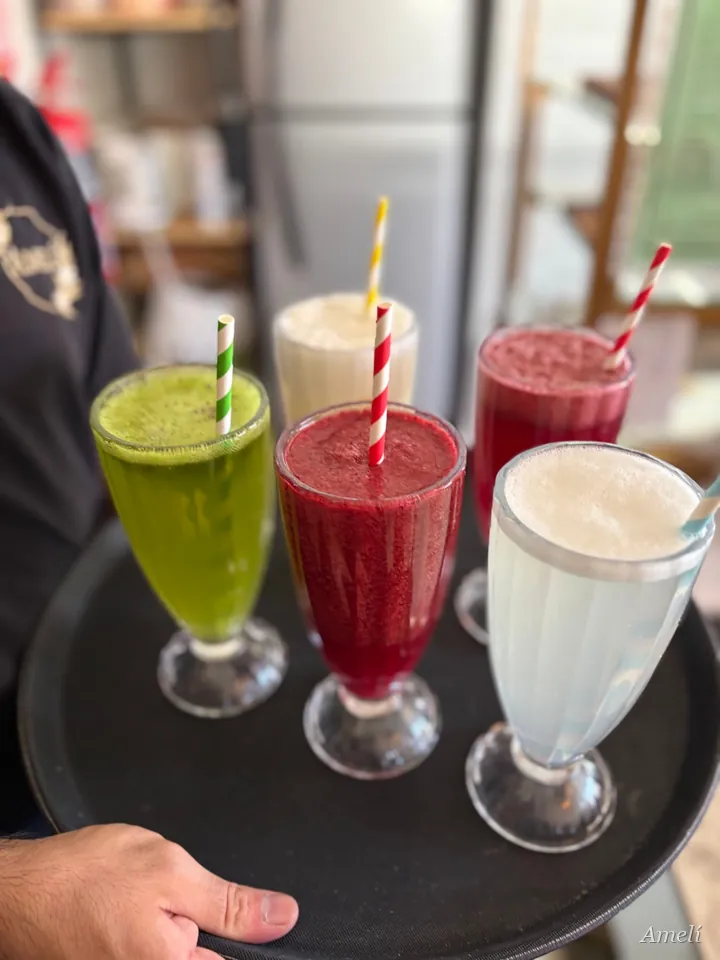
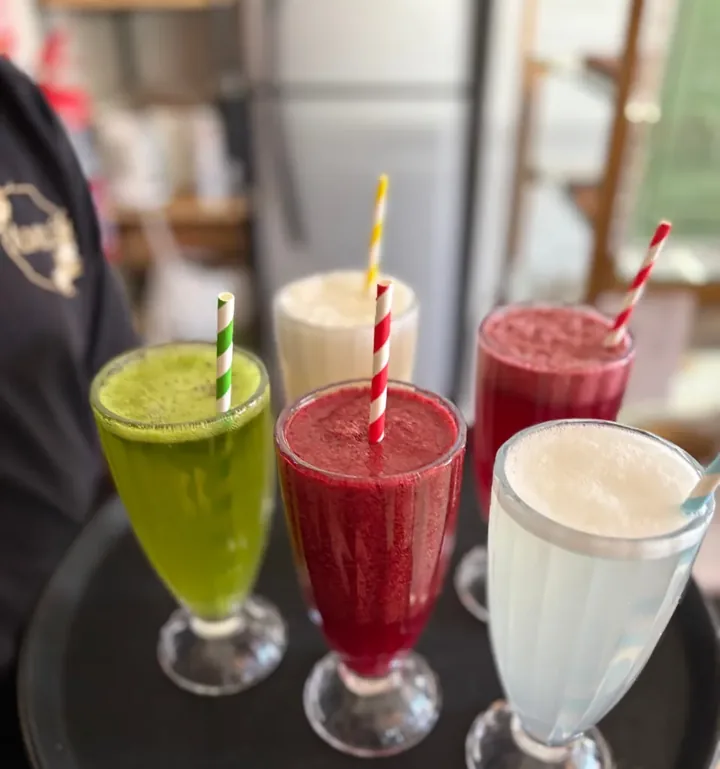
Ajustes de diseño: foto real en menú, tipografía unificada, y limpieza de secciones (#19)
- Menú: agrega foto real del salón en el hero (antes placeholder) y
  alinea la tipografía de la marca con el sitio institucional
  (small-caps en el header, wordmark simple en el footer).
- Institucional: quita el botón de arrepentimiento duplicado del header
  (ya vive en el footer), alinea a la izquierda el párrafo de "Sobre
  Amelí", y recorta la foto de smoothies para sacar la mano que sostenía
  la bandeja.
- Institucional: elimina la sección "Comunidad / Instagram" (4 fotos +
  link de perfil) por pedido explícito, incluyendo el ítem del menú de
  navegación, el CSS asociado, las imágenes huérfanas y los tests que
  dependían de esa sección.

294/294 tests pasan (131 + 163 con 54 subtests).

diff --git a/web/templates/index.template.html b/web/templates/index.template.html
@@ -32,7 +32,6 @@ __SOCIAL_META_TAGS__
       <span class="logo-tipografico" aria-hidden="true">__MARCA__</span>
     </a>
     <div class="header-acciones">
-      <!--PAGINAS_LEGALES_START--><a class="header-legal-link" href="arrepentimiento.html">Botón de arrepentimiento</a><!--PAGINAS_LEGALES_END-->
       <!-- data-a11y-pending: oculta e inhabilita el botón por defecto
            (ver assets/css/site.css). Lo saca site.js recién después de
            encontrar todos los elementos del panel y registrar sus
@@ -70,7 +69,6 @@ __SOCIAL_META_TAGS__
     <!--PASTELERIA_PEDIDOS_START--><a href="#tienda">Carta y pedidos</a><!--PASTELERIA_PEDIDOS_END-->
     <!--SUSTENTABILIDAD_START--><a href="#sustentabilidad">Origen y compromiso</a><!--SUSTENTABILIDAD_END-->
     <!--PREGUNTAS_FRECUENTES_START--><a href="#preguntas-frecuentes">Preguntas frecuentes</a><!--PREGUNTAS_FRECUENTES_END-->
-    <a href="#instagram">Instagram</a>
     <a href="#ubicacion">Visitarnos</a>
     <a href="#contacto">Consultas</a>
     <!--SUMATE_START--><a href="#sumate">Sumate a Amelí</a><!--SUMATE_END-->
@@ -179,7 +177,7 @@ __SOCIAL_META_TAGS__
         <a class="btn btn-secundario" href="https://wa.me/__WHATSAPP_E164__" target="_blank" rel="noopener noreferrer">Pedir por WhatsApp<span class="solo-lectores"> (se abre en una pestaña nueva)</span></a>
       </div>
     </div>
-    <img class="espacio-tienda" alt="Bandeja con cinco batidos de distintos colores, cada uno con sorbete de papel, sostenida por una persona." src="assets/img/carta-pedidos-960.webp" srcset="assets/img/carta-pedidos-480.webp 480w, assets/img/carta-pedidos-720.webp 720w, assets/img/carta-pedidos-960.webp 960w" sizes="(min-width: 900px) 480px, 100vw" width="960" height="1280" loading="lazy" decoding="async">
+    <img class="espacio-tienda" alt="Bandeja con cinco batidos de distintos colores, cada uno con sorbete de papel." src="assets/img/carta-pedidos-960.webp" srcset="assets/img/carta-pedidos-480.webp 480w, assets/img/carta-pedidos-720.webp 720w, assets/img/carta-pedidos-960.webp 960w" sizes="(min-width: 900px) 480px, 100vw" width="960" height="1025" loading="lazy" decoding="async">
   </section><!--PASTELERIA_PEDIDOS_END-->
 
   <!--SUSTENTABILIDAD_START--><section class="sustentabilidad" id="sustentabilidad" aria-labelledby="titulo-sustentabilidad">
@@ -221,37 +219,6 @@ __SOCIAL_META_TAGS__
       </details>
     </div>
   </section><!--PREGUNTAS_FRECUENTES_END-->
-
-  <!-- Comunidad / Instagram -- se ubica antes de Visitarnos y
-       Consultas, como pidió Ignacio. Es una vidriera visual; los
-       canales de contacto no se repiten acá. -->
-  <section class="instagram-preview arquitectura-bloque" id="instagram" aria-labelledby="titulo-instagram">
-    <div class="instagram-cabecera">
-      <div>
-        <p class="eyebrow" id="titulo-instagram">Comunidad</p>
-        <h2 class="titulo-seccion">La mesa sigue en Instagram</h2>
-      </div>
-      <a class="link-secundario" href="https://instagram.com/__INSTAGRAM_HANDLE__" target="_blank" rel="noopener noreferrer">@__INSTAGRAM_HANDLE__<span class="solo-lectores"> (se abre en una pestaña nueva)</span></a>
-    </div>
-    <div class="instagram-grid">
-      <a href="https://www.instagram.com/p/DcEXg40lUrJ/?stkn=NnF3bWtkdWNpbGkw" target="_blank" rel="noopener noreferrer">
-        <img class="espacio-imagen espacio-instagram" alt="Bandeja con alfajores, brownies bañados en chocolate, merengues rellenos de dulce de leche y galletitas con mermelada de frutos rojos." src="assets/img/instagram-01-640.webp" srcset="assets/img/instagram-01-320.webp 320w, assets/img/instagram-01-640.webp 640w" sizes="(min-width: 900px) 25vw, 50vw" width="640" height="853" loading="lazy" decoding="async">
-        <span class="solo-lectores"> (se abre en una pestaña nueva)</span>
-      </a>
-      <a href="https://www.instagram.com/p/Dcv1nCVFfo3/?stkn=MTl0bTEzdjVrZGl3eA==" target="_blank" rel="noopener noreferrer">
-        <img class="espacio-imagen espacio-instagram" alt="Bagel tostado con huevo, jamón, queso, tomate y palta, cortado al medio." src="assets/img/instagram-02-640.webp" srcset="assets/img/instagram-02-320.webp 320w, assets/img/instagram-02-640.webp 640w" sizes="(min-width: 900px) 25vw, 50vw" width="640" height="853" loading="lazy" decoding="async">
-        <span class="solo-lectores"> (se abre en una pestaña nueva)</span>
-      </a>
-      <a href="https://www.instagram.com/reel/Dc6QqV1hOA1/?stkn=eGYyMDRnYXMwZ2N1" target="_blank" rel="noopener noreferrer">
-        <img class="espacio-imagen espacio-instagram" alt="Mesera atendiendo a un cliente junto a la ventana del salón, con el logo de Amelí reflejado en el vidrio." src="assets/img/instagram-03-640.webp" srcset="assets/img/instagram-03-320.webp 320w, assets/img/instagram-03-640.webp 640w" sizes="(min-width: 900px) 25vw, 50vw" width="640" height="853" loading="lazy" decoding="async">
-        <span class="solo-lectores"> (se abre en una pestaña nueva)</span>
-      </a>
-      <a href="https://www.instagram.com/p/DdP9FRaFHhl/?stkn=MTlwanBiYTB6ZHNl" target="_blank" rel="noopener noreferrer">
-        <img class="espacio-imagen espacio-instagram" alt="Manos armando una flor de papel para decorar una torta, y la torta terminada cubierta de pétalos rojos." src="assets/img/instagram-04-640.webp" srcset="assets/img/instagram-04-320.webp 320w, assets/img/instagram-04-640.webp 640w" sizes="(min-width: 900px) 25vw, 50vw" width="640" height="853" loading="lazy" decoding="async">
-        <span class="solo-lectores"> (se abre en una pestaña nueva)</span>
-      </a>
-    </div>
-  </section>
 
   <!-- ===== Visitarnos -- contiene únicamente lo necesario para
        llegar: dirección, horarios y mapas. Consultas vive en su propio

diff --git a/web/assets/css/site.css b/web/assets/css/site.css
@@ -647,23 +647,6 @@ a:focus-visible, button:focus-visible{
 }
 .lista-detalle{font-family:var(--font-body); font-size:.85rem; color:var(--texto-sec)}
 
-/* Comunidad / Instagram (referencia: benditoaceite.com) -- grilla de
-   espacios reservados, mismo tratamiento visual que .espacio-imagen ya
-   define (línea diagonal, borde), solo en formato cuadrado y de a 2/4
-   por fila en vez de un collage asimétrico. */
-.instagram-preview{
-  max-width:var(--max-w); margin:0 auto;
-  padding:56px 24px; border-bottom:1px solid var(--linea-suave);
-}
-.instagram-grid{
-  display:grid; grid-template-columns:repeat(2, 1fr); gap:14px;
-  margin:28px 0 24px;
-}
-.espacio-instagram{aspect-ratio:1/1; font-size:.65rem}
-@media(min-width:860px){
-  .instagram-grid{grid-template-columns:repeat(4, 1fr)}
-}
-
 .contacto-grid{display:grid; grid-template-columns:1fr; gap:28px}
 .contacto-canales{
   display:flex; flex-direction:column; font-style:normal;
@@ -965,7 +948,7 @@ html[data-lectura="simple"] .indice-num{font-style:normal}
    se agrega cómo llenarla. El fondo con el patrón diagonal que algunas
    de estas clases conservan en reglas de arriba/abajo queda debajo,
    tapado por la foto, sin que haga falta tocarlo. */
-img.espacio-tienda,img.espacio-sustentabilidad,img.espacio-instagram{
+img.espacio-tienda,img.espacio-sustentabilidad{
   width:100%; height:100%; object-fit:cover; display:block;
 }
 .portada-hero{
@@ -1011,7 +994,7 @@ img.portada-hero-fondo{
   border-bottom:3px solid var(--tinta); text-align:center;
 }
 .sobre-ameli .eyebrow{justify-content:center}
-.sobre-ameli p:not(.eyebrow){max-width:62ch; margin-left:auto; margin-right:auto}
+.sobre-ameli p:not(.eyebrow){max-width:62ch; margin-left:auto; margin-right:auto; text-align:left}
 
 .sabores{border-bottom:3px solid var(--tinta)}
 .sabor-card{border:2px solid var(--verde-osc); box-shadow:none}
@@ -1415,23 +1398,6 @@ footer::before{display:none}
 .contacto-compacto .lista-detalle,.resenas a{overflow-wrap:anywhere; word-break:break-word}
 .mapa-enlaces > *{max-width:100%}
 
-.instagram-preview{padding-top:80px; padding-bottom:88px; border-bottom:1px solid var(--linea-suave)}
-.instagram-cabecera{display:flex; flex-direction:column; align-items:flex-start; gap:12px}
-.instagram-cabecera .titulo-seccion{margin-bottom:0}
-.instagram-grid{gap:10px; margin-top:32px; margin-bottom:0}
-.espacio-instagram{border-color:var(--linea); aspect-ratio:4/5}
-
-/* Enlace normativo visible desde el primer acceso. No compite con las
-   dos herramientas del header: en pantallas angostas conserva un rótulo
-   breve y en desktop gana un poco más de aire. */
-.header-legal-link{
-  min-height:48px; padding:0 14px; display:inline-flex; align-items:center;
-  border:1px solid rgba(255,253,247,.45); border-radius:var(--radius-pill);
-  color:var(--blanco); text-decoration:none; font-size:.7rem; font-weight:700;
-  letter-spacing:.04em; text-transform:uppercase; white-space:nowrap;
-}
-.header-legal-link:hover,.header-legal-link:focus-visible{background:rgba(255,253,247,.12)}
-
 /* Consultas como directorio editorial oscuro: inspirado en la jerarquía
    del ejemplo aportado, sin copiar tipografía, marca ni contenido. */
 .consultas-directorio{
@@ -1506,7 +1472,6 @@ a.consulta-ficha:hover,a.consulta-ficha:focus-visible{padding-left:12px; backgro
   .ubicacion.visitarnos{grid-template-columns:minmax(320px,.9fr) minmax(420px,1.1fr); align-items:stretch}
   .visitarnos .espacio-mapa{min-height:680px}
   .visitarnos .ubicacion-contenido{padding:88px max(24px, calc((100vw - var(--max-w)) / 2)) 88px 56px}
-  .instagram-cabecera{flex-direction:row; justify-content:space-between; align-items:flex-end}
   .consultas-directorio{padding-top:110px; padding-bottom:110px}
 }
 
@@ -1540,6 +1505,5 @@ a.consulta-ficha:hover,a.consulta-ficha:focus-visible{padding-left:12px; backgro
   .footer-interior{flex-direction:column; align-items:flex-start}
   .enlaces-footer{justify-content:flex-start}
   .header-acciones{gap:6px}
-  .header-legal-link{max-width:112px; padding:0 10px; font-size:.61rem; text-align:center; line-height:1.1; white-space:normal}
   .consultas-directorio,.consultas-grid,.consulta-ficha{width:100%; max-width:100%; min-width:0}
 }

diff --git a/assets/css/menu.css b/assets/css/menu.css
@@ -42,7 +42,7 @@ html{scroll-behavior:smooth}
 body{font-family:'Karla',sans-serif;background:var(--blanco);color:var(--tinta);max-width:480px;margin:0 auto;min-height:100dvh;position:relative}
 ::selection{background:var(--rosa)}
 .topbar{display:flex;align-items:center;justify-content:space-between;gap:12px;max-width:480px;margin:0 auto;padding:18px 20px 0}
-.marca-top{font-family:'Cormorant Garamond',serif;font-size:calc(27px * var(--afs,1));font-weight:600;color:var(--verde);line-height:1}
+.marca-top{font-family:'Cormorant Garamond',serif;font-size:calc(27px * var(--afs,1));font-weight:600;color:var(--verde);line-height:1;font-variant-caps:small-caps;letter-spacing:.06em}
 .topbar-ctrl{display:flex;align-items:center;gap:8px;position:relative}
 .topbar-info{max-width:480px;margin:0 auto;padding:10px 20px 0;text-align:center}
 .topbar-info .sub{font-family:'Karla',sans-serif;font-size:calc(11px * var(--afs,1));letter-spacing:.08em;text-transform:uppercase;color:var(--texto-sec);font-weight:600}
@@ -53,13 +53,7 @@ body{font-family:'Karla',sans-serif;background:var(--blanco);color:var(--tinta);
 .estado .punto{animation:latir-punto 2.4s ease-in-out infinite}
 @keyframes latir-punto{0%,100%{opacity:1}50%{opacity:.45}}
 
-/* hero: todavía sin fotografía real (0/51 cargadas) -- placeholder con la
-   misma forma/proporción que va a tener la foto real el día que exista,
-   así el layout no se vuelve a tocar cuando llegue. */
-.hero-foto{margin:16px 16px 0;height:220px;border-radius:var(--radius-lg);position:relative;overflow:hidden;background:
-  radial-gradient(120% 90% at 20% 15%, rgba(250,246,236,.9), transparent 55%),
-  linear-gradient(155deg, #FAF6EC 0%, #F3ECDD 55%, #EADFC7 100%)}
-.hero-foto::after{content:'';position:absolute;inset:0;opacity:.1;background-image:radial-gradient(rgba(83,96,57,.35) .6px, transparent .6px);background-size:5px 5px}
+.hero-foto{margin:16px 16px 0;height:220px;border-radius:var(--radius-lg);position:relative;overflow:hidden;display:block;width:calc(100% - 32px);object-fit:cover;background:#F3ECDD}
 .hero-texto{max-width:480px;margin:0 auto;padding:18px 20px 4px;text-align:center}
 .hero-texto .saludo{font-family:'Cormorant Garamond',serif;font-style:italic;font-size:calc(16px * var(--afs,1));color:var(--texto-sec)}
 .hero-texto .pregunta{font-family:'Cormorant Garamond',serif;font-weight:600;font-size:calc(27px * var(--afs,1));color:var(--tinta);margin-top:2px}
@@ -202,7 +196,7 @@ section.cat.visible .lista .prod{opacity:1;transform:translateY(0)}
 .destacado-cat .fila{margin-top:10px}
 footer{margin-top:44px;background:var(--footer-bg);color:var(--sobre-verde);text-align:center;padding:44px 24px 110px;position:relative;overflow:hidden}
 footer svg.botanica{position:absolute;opacity:.1;width:230px;left:50%;top:-40px;transform:translateX(-50%) rotate(90deg)}
-footer .marca{font-family:'Cormorant Garamond',serif;font-size:calc(34px * var(--afs,1));font-weight:600;letter-spacing:.015em;text-transform:uppercase}
+footer .marca{font-family:'Cormorant Garamond',serif;font-size:calc(34px * var(--afs,1));font-weight:600}
 footer .grx{font-family:'Cormorant Garamond',serif;font-style:italic;font-size:calc(17px * var(--afs,1));margin-top:6px;color:var(--rosa)}
 .redes{display:flex;justify-content:center;gap:12px;margin-top:22px}
 .redes a{display:flex;align-items:center;gap:7px;text-decoration:none;color:var(--sobre-verde);border:1px solid rgba(242,234,225,.35);padding:9px 16px;border-radius:999px;font-size:calc(13px * var(--afs,1));font-weight:600;transition:transform .12s ease}
@@ -257,7 +251,7 @@ section.cat.sin-resultados .vacio{display:block}
   body{max-width:1280px}
   .topbar{max-width:1280px;padding:28px 40px 0}
   .topbar-info{max-width:640px;padding:12px 20px 0}
-  .hero-foto{height:360px;margin:20px 40px 0}
+  .hero-foto{height:360px;margin:20px 40px 0;width:calc(100% - 80px)}
   .hero-texto{max-width:640px;padding:22px 20px 4px}
   .cat-icons{padding:24px 40px 4px}
   .momentos{margin:12px 40px 0}

diff --git a/templates/menu.template.html b/templates/menu.template.html
@@ -42,7 +42,7 @@ __CSP_META__
   <p class="lugar" id="heroLugar"></p>
 </div>
 
-<div class="hero-foto" aria-hidden="true"></div>
+<img class="hero-foto" src="assets/img/hero-salon-960.webp" srcset="assets/img/hero-salon-480.webp 480w, assets/img/hero-salon-960.webp 960w" sizes="(min-width: 480px) 480px, 100vw" alt="Salón de Amelí, con mesas de madera, piso a cuadros y la vitrina de pastelería al fondo." width="960" height="1280" loading="eager" decoding="async">
 <div class="hero-texto">
   <p class="saludo" id="heroSaludo"></p>
   <p class="pregunta" id="heroPregunta"></p>

diff --git a/web/tests/test_build_site.py b/web/tests/test_build_site.py
@@ -865,14 +865,13 @@ class TestConstruirPreviewYProduccion(SandboxConstruirTestCase):
         ):
             self.assertNotIn(frase, contenido)
 
-    def test_instagram_visitarnos_y_consultas_tienen_orden_y_funcion_propios(self):
-        """Instagram va primero; llegar y escribir no se mezclan."""
+    def test_visitarnos_y_consultas_tienen_orden_y_funcion_propios(self):
+        """Llegar y escribir no se mezclan."""
         build_site.construir(produccion=False)
         contenido = (build_site.DIST_PATH / "index.html").read_text(encoding="utf-8")
         self.assertRegex(contenido, r'<section[^>]+id="ubicacion"')
         self.assertRegex(contenido, r'<section[^>]+id="contacto"')
         self.assertIn('class="consultas-directorio', contenido)
-        self.assertLess(contenido.index('id="instagram"'), contenido.index('id="ubicacion"'))
         self.assertLess(contenido.index('id="ubicacion"'), contenido.index('id="contacto"'))
         self.assertIn('id="titulo-ubicacion">Encontranos en Malargüe</h2>', contenido)
         self.assertNotIn("Vení a encontrarnos", contenido)
@@ -940,7 +939,6 @@ class TestConstruirPreviewYProduccion(SandboxConstruirTestCase):
 
         # 1) contenido esencial presente directamente en el HTML.
         self.assertIn("wa.me/5492604106653", html_crudo)
-        self.assertIn("instagram.com/ameli.casadete", html_crudo)
         self.assertIn(CONFIG_VALIDO["menu_url"], html_crudo)
 
         # 2) el botón de accesibilidad arranca marcado como pendiente.
@@ -974,7 +972,7 @@ class TestConstruirPreviewYProduccion(SandboxConstruirTestCase):
         self.assertRegex(contenido, r'<dialog[^>]+id="navPanel"')
         for ancla in (
             "contenido", "filosofia", "experiencias", "tienda",
-            "sustentabilidad", "preguntas-frecuentes", "instagram", "ubicacion", "contacto",
+            "sustentabilidad", "preguntas-frecuentes", "ubicacion", "contacto",
         ):
             self.assertIn(f'href="#{ancla}"', contenido)
             self.assertRegex(contenido, rf'id="{ancla}"')
@@ -1047,11 +1045,11 @@ class TestConstruirPreviewYProduccion(SandboxConstruirTestCase):
         self.assertRegex(css, r"\.consultas-grid\{[^}]*font-style:normal")
 
     def test_fotografias_reales_tienen_atributos_completos_y_mapa_sigue_reservado(self):
-        """Portada, Carta y pedidos, Origen y compromiso, y las 4 fotos de
-        Instagram ya son <img> reales (fotos propias incorporadas el
-        2026-09-16) -- cada una con ancho/alto (evita saltos de layout),
-        srcset+sizes (responsive) y alt no vacío con texto real (no son
-        decorativas). El mapa sigue sin foto ni embed, por diseño."""
+        """Portada, Carta y pedidos, y Origen y compromiso ya son <img>
+        reales (fotos propias incorporadas el 2026-09-16) -- cada una con
+        ancho/alto (evita saltos de layout), srcset+sizes (responsive) y
+        alt no vacío con texto real (no son decorativas). El mapa sigue
+        sin foto ni embed, por diseño."""
         self.escribir_config(config_valido(
             presentacion_sobre_ameli="Filosofía confirmada.",
             servicios_habilitado=True,
@@ -1063,7 +1061,6 @@ class TestConstruirPreviewYProduccion(SandboxConstruirTestCase):
         imgs = re.findall(r'<img\b[^>]*>', contenido)
         clases_con_foto = (
             "portada-hero-fondo", "espacio-tienda", "espacio-sustentabilidad",
-            "espacio-instagram",
         )
         for clase in clases_con_foto:
             etiquetas = [img for img in imgs if f'class="{clase}"' in img or f' {clase}"' in img or f'"{clase} ' in img]
@@ -1082,7 +1079,7 @@ class TestConstruirPreviewYProduccion(SandboxConstruirTestCase):
         self.assertIn('loading="eager"', portada_img)
         # El resto de las fotos sí son lazy.
         for img in imgs:
-            if "portada-hero-fondo" not in img and ("espacio-tienda" in img or "espacio-sustentabilidad" in img or "espacio-instagram" in img):
+            if "portada-hero-fondo" not in img and ("espacio-tienda" in img or "espacio-sustentabilidad" in img):
                 self.assertIn('loading="lazy"', img)
         self.assertIn("espacio-mapa", contenido)
         self.assertNotRegex(contenido, r'<img\b[^>]*espacio-mapa')
